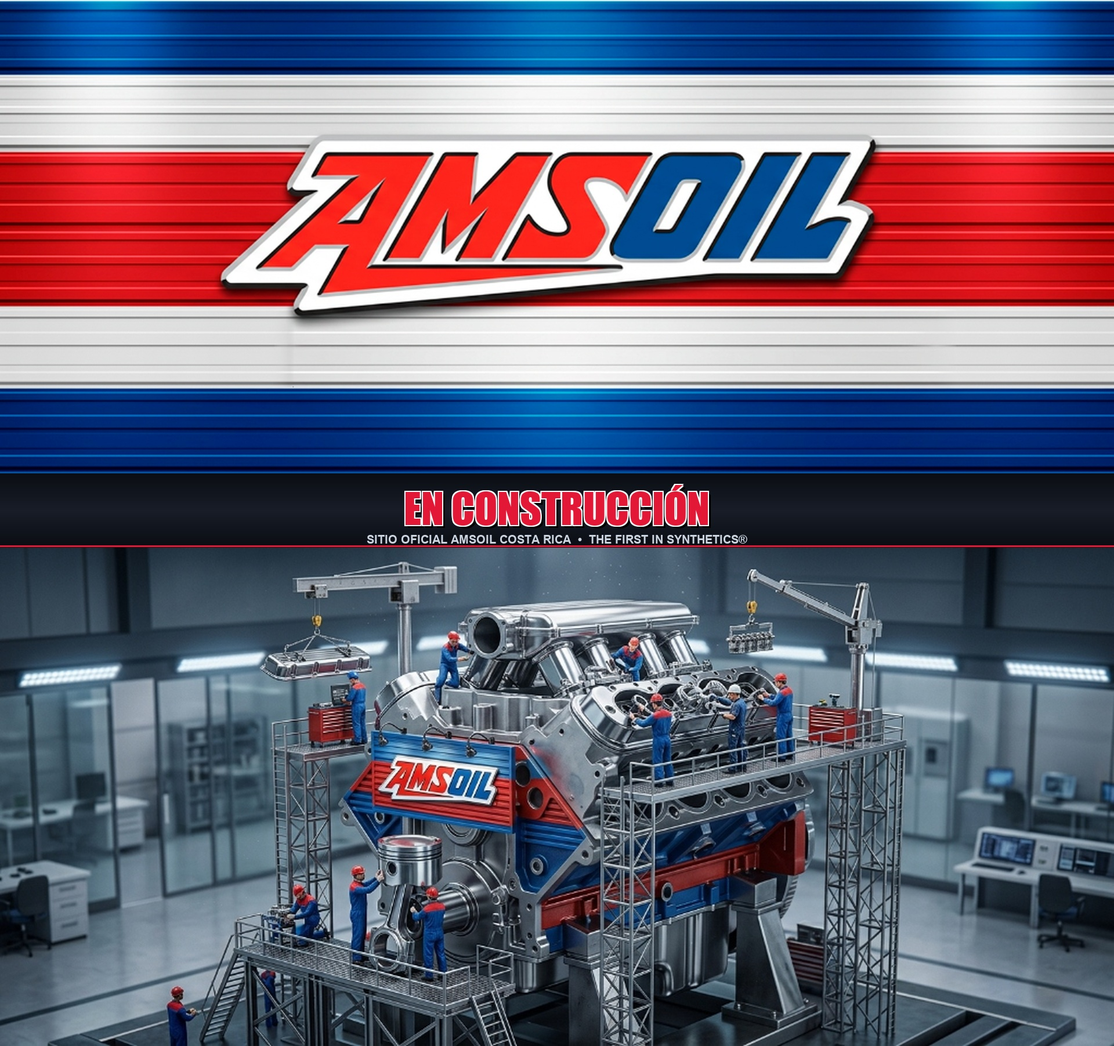
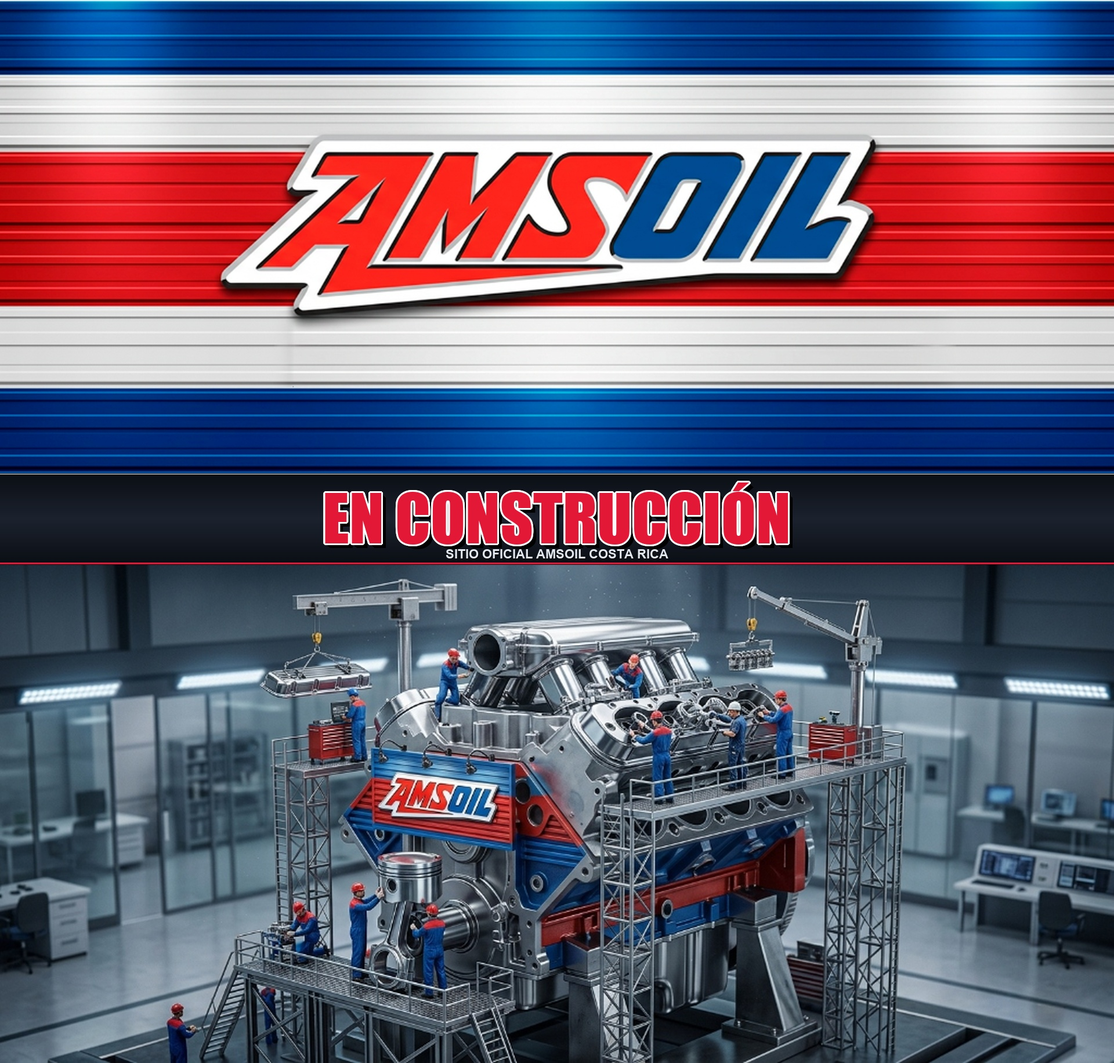
feat: en construccion mas grande y visible, remover tarjeta inferior y eliminar slogan anterior

diff --git a/index.html b/index.html
@@ -3,20 +3,17 @@
 <head>
     <meta charset="UTF-8">
     <meta name="viewport" content="width=device-width, initial-scale=1.0">
-    <title>AMSOIL Costa Rica | En Construcción — The First in Synthetics®</title>
-    <meta name="description" content="Sitio oficial de AMSOIL Costa Rica (American Lubricants Supply S.A.). Estamos preparando la nueva plataforma de lubricantes 100% sintéticos.">
+    <title>AMSOIL Costa Rica | En Construcción</title>
+    <meta name="description" content="Sitio oficial de AMSOIL Costa Rica (American Lubricants Supply S.A.). Próximamente disponible.">
     <link rel="preconnect" href="https://fonts.googleapis.com">
     <link rel="preconnect" href="https://fonts.gstatic.com" crossorigin>
-    <link href="https://fonts.googleapis.com/css2?family=Barlow+Condensed:ital,wght@0,700;0,800;0,900;1,700;1,800;1,900&family=Inter:wght@400;500;600;700&display=swap" rel="stylesheet">
+    <link href="https://fonts.googleapis.com/css2?family=Inter:wght@400;500;600&display=swap" rel="stylesheet">
     <style>
         :root {
             --amsoil-red: #E31837;
             --amsoil-blue: #00509E;
-            --bg-dark: #07090C;
-            --bg-card: #0E1217;
-            --border-steel: #222932;
-            --text-main: #FFFFFF;
-            --text-muted: #94A3B8;
+            --bg-dark: #06080B;
+            --border-steel: #1E252E;
         }
 
         * {
@@ -28,46 +25,46 @@
         body {
             font-family: 'Inter', -apple-system, BlinkMacSystemFont, sans-serif;
             background-color: var(--bg-dark);
-            color: var(--text-main);
+            color: #FFFFFF;
             min-height: 100vh;
             display: flex;
             flex-direction: column;
             align-items: center;
             background-image: 
-                radial-gradient(circle at 50% 15%, rgba(0, 80, 158, 0.15) 0%, transparent 60%),
-                radial-gradient(circle at 50% 85%, rgba(227, 24, 55, 0.1) 0%, transparent 60%),
-                linear-gradient(180deg, #090B0E 0%, #040507 100%);
+                radial-gradient(circle at 50% 10%, rgba(0, 80, 158, 0.14) 0%, transparent 60%),
+                radial-gradient(circle at 50% 90%, rgba(227, 24, 55, 0.1) 0%, transparent 60%),
+                linear-gradient(180deg, #080A0D 0%, #030406 100%);
         }
 
         .container {
             width: 100%;
-            max-width: 1280px;
+            max-width: 1200px;
             margin: 0 auto;
-            padding: 20px 16px 40px;
+            padding: 24px 16px 40px;
             display: flex;
             flex-direction: column;
             align-items: center;
+            flex: 1;
         }
 
-        /* PIEZA MAESTRA: BANNER AMSOIL + EN CONSTRUCCIÓN + MOTOR V8 */
+        /* PIEZA MAESTRA UNIFICADA: BANNER + EN CONSTRUCCIÓN + MOTOR V8 */
         .masterpiece-showcase {
             width: 100%;
             max-width: 1100px;
             border-radius: 20px;
             overflow: hidden;
             box-shadow: 
-                0 25px 60px rgba(0, 0, 0, 0.85),
+                0 25px 65px rgba(0, 0, 0, 0.9),
                 0 0 0 1px rgba(255, 255, 255, 0.12),
-                0 0 40px rgba(0, 80, 158, 0.25);
+                0 0 45px rgba(0, 80, 158, 0.25);
             background: #000000;
-            margin-bottom: 32px;
-            transition: transform 0.3s ease, box-shadow 0.3s ease;
+            transition: box-shadow 0.3s ease;
         }
         .masterpiece-showcase:hover {
             box-shadow: 
-                0 30px 70px rgba(0, 0, 0, 0.95),
+                0 30px 75px rgba(0, 0, 0, 0.95),
                 0 0 0 1px rgba(255, 255, 255, 0.2),
-                0 0 50px rgba(227, 24, 55, 0.3);
+                0 0 55px rgba(227, 24, 55, 0.3);
         }
 
         .masterpiece-img {
@@ -76,132 +73,23 @@
             display: block;
         }
 
-        /* TARJETA INFORMATIVA Y CONTACTO DIRECTO */
-        .info-card {
-            background: rgba(14, 18, 23, 0.8);
-            backdrop-filter: blur(14px);
-            -webkit-backdrop-filter: blur(14px);
-            border: 1px solid var(--border-steel);
-            border-radius: 18px;
-            padding: 34px 28px;
-            max-width: 820px;
-            width: 100%;
-            text-align: center;
-            box-shadow: 0 16px 40px rgba(0,0,0,0.6);
-            margin-bottom: 24px;
-        }
-
-        .badge-status {
-            display: inline-flex;
-            align-items: center;
-            gap: 10px;
-            background: rgba(227, 24, 55, 0.14);
-            border: 1px solid rgba(227, 24, 55, 0.35);
-            color: #FFA1AF;
-            font-size: 13px;
-            font-weight: 700;
-            letter-spacing: 1.5px;
-            text-transform: uppercase;
-            padding: 8px 18px;
-            border-radius: 999px;
-            margin-bottom: 16px;
-        }
-        .badge-dot {
-            width: 8px;
-            height: 8px;
-            background: #E31837;
-            border-radius: 50%;
-            box-shadow: 0 0 8px #E31837;
-            animation: pulse 1.8s infinite;
-        }
-        @keyframes pulse {
-            0%, 100% { transform: scale(1); opacity: 1; }
-            50% { transform: scale(1.4); opacity: 0.5; }
-        }
-
-        h1 {
-            font-family: 'Barlow Condensed', sans-serif;
-            font-size: clamp(30px, 4.5vw, 44px);
-            font-weight: 800;
-            text-transform: uppercase;
-            letter-spacing: 0.5px;
-            line-height: 1.1;
-            margin-bottom: 12px;
-        }
-        h1 span {
-            color: #E31837;
-        }
-
-        .lead-text {
-            font-size: clamp(15px, 2vw, 17px);
-            color: var(--text-muted);
-            line-height: 1.6;
-            margin-bottom: 26px;
-        }
-
-        .cta-group {
-            display: flex;
-            gap: 14px;
-            justify-content: center;
-            flex-wrap: wrap;
-        }
-
-        .btn-wa {
-            background: #25D366;
-            color: #03240E;
-            text-decoration: none;
-            font-weight: 700;
-            font-size: 15px;
-            padding: 14px 28px;
-            border-radius: 10px;
-            display: inline-flex;
-            align-items: center;
-            gap: 10px;
-            box-shadow: 0 8px 20px rgba(37, 211, 102, 0.3);
-            transition: all 0.2s ease;
-        }
-        .btn-wa:hover {
-            transform: translateY(-2px);
-            background: #20BD5A;
-            box-shadow: 0 12px 28px rgba(37, 211, 102, 0.45);
-        }
-
-        .btn-call {
-            background: rgba(255, 255, 255, 0.08);
-            color: #FFFFFF;
-            text-decoration: none;
-            font-weight: 600;
-            font-size: 15px;
-            padding: 14px 24px;
-            border-radius: 10px;
-            display: inline-flex;
-            align-items: center;
-            gap: 10px;
-            border: 1px solid rgba(255, 255, 255, 0.16);
-            transition: all 0.2s ease;
-        }
-        .btn-call:hover {
-            background: rgba(255, 255, 255, 0.15);
-            transform: translateY(-2px);
-        }
-
-        /* PIE DE PÁGINA CON CUMPLIMIENTO OFICIAL (APPLE APP STORE, GOOGLE PLAY & WINDOWS) */
+        /* FOOTER DE CUMPLIMIENTO OFICIAL (APPLE APP STORE, GOOGLE PLAY & WINDOWS) */
         footer {
             width: 100%;
-            border-top: 1px solid #161D24;
+            border-top: 1px solid #141A22;
             padding: 24px 20px;
             text-align: center;
             font-size: 13px;
             color: #64748B;
             margin-top: auto;
-            background: #050608;
+            background: #040507;
         }
         .compliance-links {
             display: flex;
             justify-content: center;
-            gap: 18px;
+            gap: 20px;
             flex-wrap: wrap;
-            margin-bottom: 12px;
+            margin-bottom: 10px;
         }
         .compliance-links a {
             color: #94A3B8;
@@ -212,60 +100,29 @@
             color: #E31837;
             text-decoration: underline;
         }
-
-        @media (max-width: 600px) {
-            .btn-wa, .btn-call {
-                width: 100%;
-                justify-content: center;
-            }
-            .info-card {
-                padding: 24px 18px;
-            }
+        .copyright-text {
+            font-size: 12px;
+            color: #475569;
+            line-height: 1.5;
         }
     </style>
 </head>
 <body>
 
     <div class="container">
-
-        <!-- COMPOSICIÓN MAESTRA: BANNER AMSOIL + EN CONSTRUCCIÓN + MOTOR V8 GIGANTE Y MECÁNICOS -->
+        <!-- COMPOSICIÓN LIMPIA Y DIRECTA: BANNER OFICIAL + RÓTULO EN CONSTRUCCIÓN + MOTOR V8 CINEMATOGRÁFICO -->
         <div class="masterpiece-showcase">
             <img 
-                src="assets/banners/amsoil-cr-completo-en-construccion.jpg?v=3" 
-                alt="AMSOIL Costa Rica - En Construcción - Ingeniería de Precisión The First in Synthetics"
+                src="assets/banners/amsoil-cr-completo-en-construccion.jpg?v=4" 
+                alt="AMSOIL Costa Rica - En Construcción"
                 class="masterpiece-img"
                 width="1920"
-                height="1803"
+                height="1833"
             >
         </div>
-
-        <!-- TARJETA INFORMATIVA Y CONTACTO -->
-        <main class="info-card">
-            <div class="badge-status">
-                <span class="badge-dot"></span>
-                Sitio Oficial en Construcción &bull; Costa Rica
-            </div>
-
-            <h1>Estamos Ensamblando la Nueva Plataforma Digital <span>AMSOIL</span></h1>
-            <p class="lead-text">
-                Ingeniería de precisión y el más alto estándar en lubricación sintética de competición y servicio pesado. Muy pronto estará disponible el catálogo interactivo para talleres, flotas y distribuidores autorizados en Costa Rica.
-            </p>
-
-            <div class="cta-group">
-                <a href="https://wa.me/50688888888?text=Hola%20AMSOIL%20Costa%20Rica,%20deseo%20información%20sobre%20productos%20y%20pedidos" target="_blank" rel="noopener" class="btn-wa">
-                    <svg width="20" height="20" viewBox="0 0 24 24" fill="currentColor"><path d="M.057 24l1.687-6.163c-1.041-1.804-1.588-3.849-1.587-5.946.003-6.556 5.338-11.891 11.893-11.891 3.181.001 6.167 1.24 8.413 3.488 2.245 2.248 3.481 5.236 3.48 8.414-.003 6.557-5.338 11.892-11.893 11.892-1.99-.001-3.951-.5-5.688-1.448l-6.305 1.654zm6.597-3.807c1.676.995 3.276 1.591 5.392 1.592 5.448 0 9.886-4.434 9.889-9.885.002-5.462-4.415-9.89-9.881-9.892-5.452 0-9.887 4.434-9.889 9.884-.001 2.225.651 3.891 1.746 5.634l-.999 3.648 3.742-.981zm11.387-5.464c-.074-.124-.272-.198-.57-.347-.297-.149-1.758-.868-2.031-.967-.272-.099-.47-.149-.669.149-.198.297-.768.967-.941 1.165-.173.198-.347.223-.644.074-.297-.149-1.255-.462-2.39-1.475-.883-.788-1.48-1.761-1.653-2.059-.173-.297-.018-.458.13-.606.134-.133.297-.347.446-.521.151-.172.2-.296.3-.495.099-.198.05-.372-.025-.521-.075-.148-.669-1.611-.916-2.206-.242-.579-.487-.501-.669-.51l-.57-.01c-.198 0-.52.074-.792.372s-1.04 1.016-1.04 2.479 1.065 2.876 1.213 3.074c.149.198 2.095 3.2 5.076 4.487.709.306 1.263.489 1.694.626.712.226 1.36.194 1.872.118.571-.085 1.758-.719 2.006-1.413.248-.695.248-1.29.173-1.414z"/></svg>
-                    Contactar por WhatsApp
-                </a>
-                <a href="tel:+50622222222" class="btn-call">
-                    <svg width="18" height="18" viewBox="0 0 24 24" fill="none" stroke="currentColor" stroke-width="2"><path d="M22 16.92v3a2 2 0 0 1-2.18 2 19.79 19.79 0 0 1-8.63-3.07 19.5 19.5 0 0 1-6-6 19.79 19.79 0 0 1-3.07-8.67A2 2 0 0 1 4.11 2h3a2 2 0 0 1 2 1.72 12.84 12.84 0 0 0 .7 2.81 2 2 0 0 1-.45 2.11L8.09 9.91a16 16 0 0 0 6 6l1.27-1.27a2 2 0 0 1 2.11-.45 12.84 12.84 0 0 0 2.81.7A2 2 0 0 1 22 16.92z"/></svg>
-                    Atención al Cliente
-                </a>
-            </div>
-        </main>
-
     </div>
 
-    <!-- FOOTER OFICIAL DE CUMPLIMIENTO LEGAL (APPLE APP STORE, GOOGLE PLAY & WINDOWS) -->
+    <!-- PIE DE PÁGINA LIMPIO CON ENLACES DE CUMPLIMIENTO (APPLE, GOOGLE PLAY & WINDOWS) -->
     <footer>
         <div class="compliance-links">
             <a href="https://jucarsalrd.github.io/jucarsasuite/privacy.html" target="_blank">Política de Privacidad</a>
@@ -276,9 +133,8 @@
             &bull;
             <a href="https://jucarsalrd.github.io/jucarsasuite/delete-account.html" target="_blank">Eliminación de Cuenta</a>
         </div>
-        <p>
-            &copy; 2026 <strong>American Lubricants Supply S.A. (ALS)</strong> &bull; Distribuidor Oficial AMSOIL en Costa Rica.<br>
-            The First in Synthetics&reg; es una marca registrada de AMSOIL INC. Superior, Wisconsin, EE.UU.
+        <p class="copyright-text">
+            &copy; 2026 <strong>American Lubricants Supply S.A. (ALS)</strong> &bull; Distribuidor Oficial AMSOIL en Costa Rica.
         </p>
     </footer>
 
